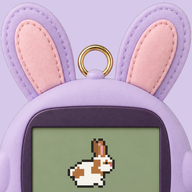
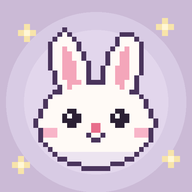
改名口袋兔子、新图标、安装到桌面指引
Claude-Session: https://claude.ai/code/session_01WwHsPCqn8QTMz7V1BccEnH

diff --git a/sw.js b/sw.js
@@ -1,5 +1,5 @@
-// 口袋兔窝离线快取：有网络时拿最新版，没网络时用上次的版本
-const C='tuwo-2026.10.24d';
+// 口袋兔子离线快取：有网络时拿最新版，没网络时用上次的版本
+const C='tuwo-2026.10.24e';
 self.addEventListener('install',e=>{e.waitUntil(caches.open(C).then(c=>c.addAll(['./','index.html','manifest.webmanifest','icon-192.png','icon-512.png'])).then(()=>self.skipWaiting()));});
 self.addEventListener('activate',e=>{e.waitUntil(caches.keys().then(ks=>Promise.all(ks.filter(k=>k!==C).map(k=>caches.delete(k)))).then(()=>self.clients.claim()));});
 self.addEventListener('fetch',e=>{const u=new URL(e.request.url);if(e.request.method!=='GET'||u.origin!==location.origin)return;
